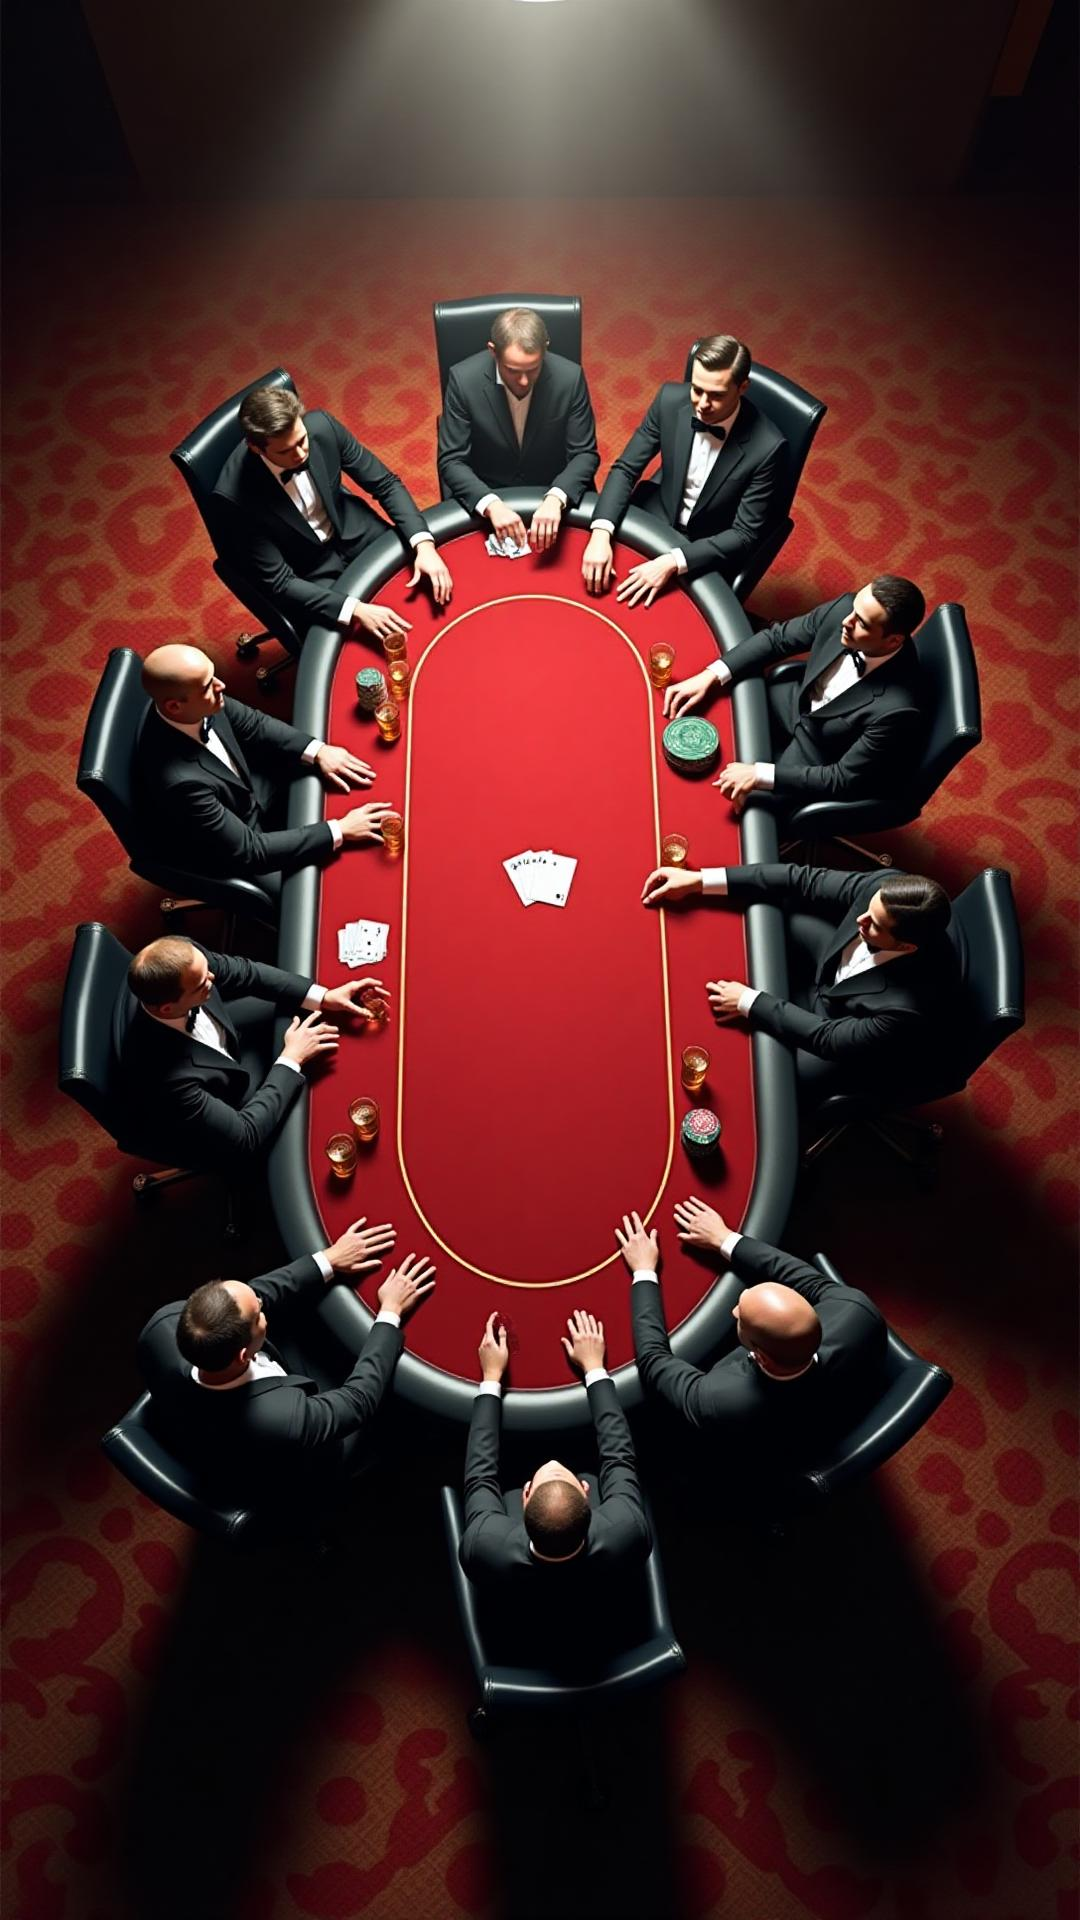
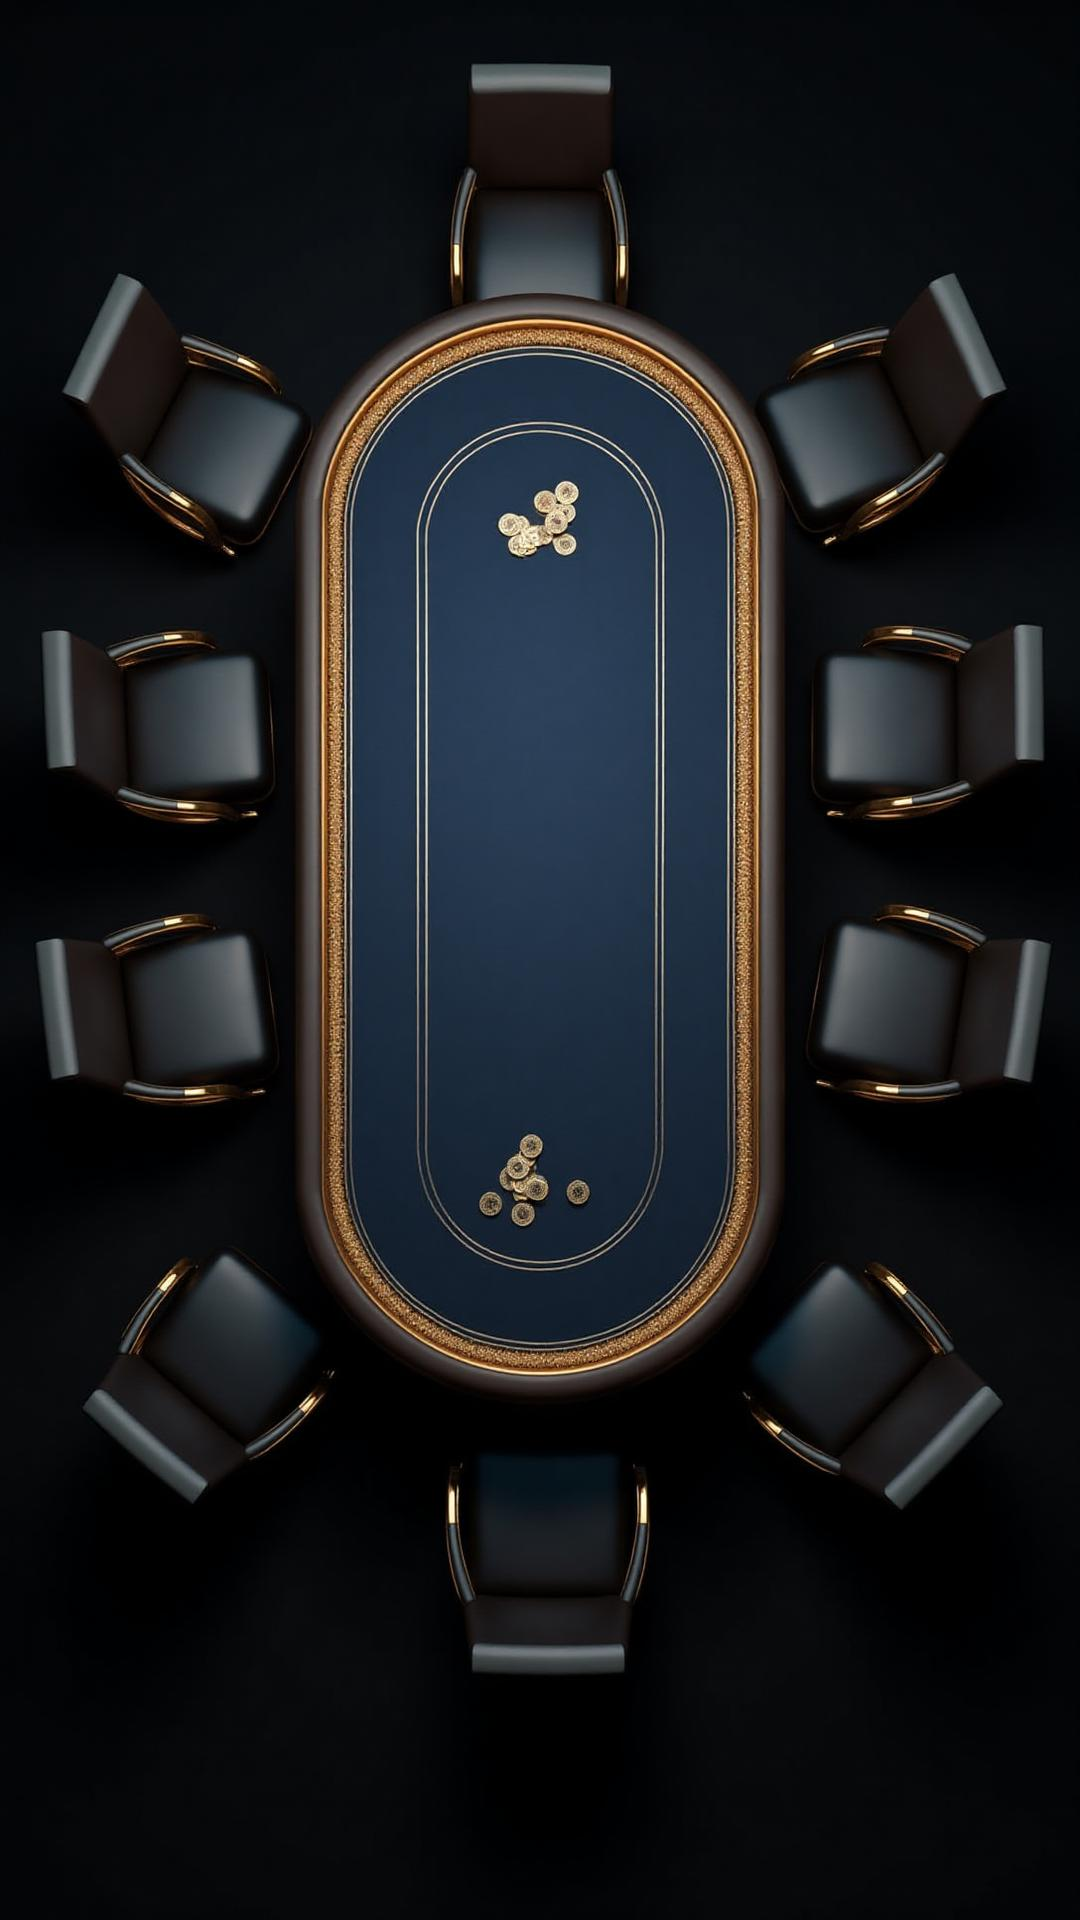
Changes

diff --git a/src/components/poker/FullscreenPokerTable.tsx b/src/components/poker/FullscreenPokerTable.tsx
@@ -1021,7 +1021,7 @@ const SyndikateTableFelt = memo(function SyndikateTableFelt({
         }}
       />
       
-      {/* Outer metallic rail - OPTIMIZED: reduced box-shadow complexity */}
+      {/* Outer rail - dark leather with gold accents */}
       <div 
         className="absolute"
         style={{
@@ -1030,13 +1030,13 @@ const SyndikateTableFelt = memo(function SyndikateTableFelt({
           right: sideMargin.outer,
           bottom: '6%',
           borderRadius: '45% / 22%',
-          background: 'linear-gradient(180deg, #5a6a7a 0%, #3d4a5a 20%, #2a3440 50%, #3d4a5a 80%, #5a6a7a 100%)',
-          boxShadow: '0 8px 40px rgba(0,0,0,0.7), inset 0 1px 10px rgba(255,255,255,0.1)',
-          border: '1px solid rgba(255,255,255,0.08)'
+          background: 'linear-gradient(180deg, #3a4550 0%, #2a3540 20%, #1e2830 50%, #2a3540 80%, #3a4550 100%)',
+          boxShadow: '0 8px 40px rgba(0,0,0,0.7), inset 0 1px 10px rgba(255,255,255,0.08)',
+          border: '1px solid rgba(255,255,255,0.05)'
         }}
       />
       
-      {/* Leather padding rail - OPTIMIZED: reduced inset shadows */}
+      {/* Gold ornate trim - premium accent */}
       <div 
         className="absolute"
         style={{
@@ -1045,22 +1045,37 @@ const SyndikateTableFelt = memo(function SyndikateTableFelt({
           right: sideMargin.leather,
           bottom: '7%',
           borderRadius: '44% / 21%',
-          background: 'linear-gradient(180deg, #3a2820 0%, #2a1a14 30%, #1a0f0a 60%, #2a1a14 85%, #3a2820 100%)',
+          background: 'linear-gradient(180deg, #c9a227 0%, #a67c00 15%, #7d5c00 30%, #55400a 50%, #7d5c00 70%, #a67c00 85%, #c9a227 100%)',
+          boxShadow: 'inset 0 2px 8px rgba(0,0,0,0.5), 0 0 15px rgba(201,162,39,0.15)'
+        }}
+      />
+      
+      {/* Inner dark leather padding */}
+      <div 
+        className="absolute"
+        style={{
+          top: '8%',
+          left: sideMargin.inner,
+          right: sideMargin.inner,
+          bottom: '8%',
+          borderRadius: '43% / 20%',
+          background: 'linear-gradient(180deg, #2a3545 0%, #1e2835 30%, #151c25 60%, #1e2835 85%, #2a3545 100%)',
           boxShadow: 'inset 0 3px 15px rgba(0,0,0,0.6)'
         }}
       />
       
-      {/* Inner metal trim - OPTIMIZED: minimal shadow */}
+      {/* Inner gold trim line */}
       <div 
         className="absolute"
         style={{
-          top: '9%',
-          left: sideMargin.inner,
-          right: sideMargin.inner,
-          bottom: '9%',
-          borderRadius: '42% / 20%',
-          background: 'linear-gradient(180deg, #4a5568 0%, #2d3748 50%, #1a202c 100%)',
-          border: '1px solid rgba(212,175,55,0.2)'
+          top: '9.5%',
+          left: sideMargin.felt,
+          right: sideMargin.felt,
+          bottom: '9.5%',
+          borderRadius: '41% / 19%',
+          background: 'transparent',
+          border: '2px solid rgba(201,162,39,0.4)',
+          boxShadow: '0 0 8px rgba(201,162,39,0.2)'
         }}
       />
       

diff --git a/src/hooks/usePokerPreferences.ts b/src/hooks/usePokerPreferences.ts
@@ -2,6 +2,7 @@ import { useState, useEffect, useCallback } from 'react';
 
 // Table felt themes
 export const TABLE_THEMES = [
+  { id: 'navy-gold', name: 'Премиум', color: '#1a2a3a', gradient: 'from-[#1a2a3a] via-[#152535] to-[#101c28]' },
   { id: 'classic-green', name: 'Классика', color: '#0d5c2e', gradient: 'from-[#0d5c2e] via-[#0a4a25] to-[#083d1f]' },
   { id: 'royal-blue', name: 'Роял', color: '#1e3a5f', gradient: 'from-[#1e3a5f] via-[#152d4d] to-[#0f2038]' },
   { id: 'midnight', name: 'Полночь', color: '#0a1628', gradient: 'from-[#0a1628] via-[#0d1e36] to-[#0a1628]' },
